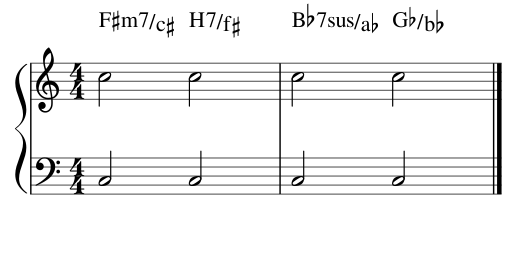
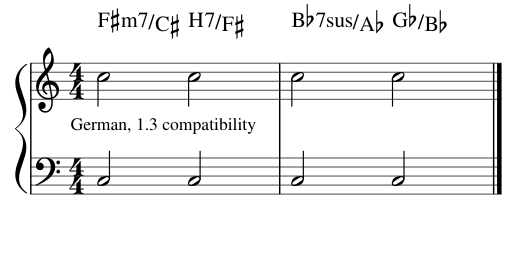
fix #40066: use es/is for german chords if lower case option enabled
Former-commit-id: c4faee7198363aef7198ce029d67ae2ddf29c79b

diff --git a/libmscore/harmony.cpp b/libmscore/harmony.cpp
@@ -364,8 +364,12 @@ void Harmony::determineRootBaseSpelling(NoteSpellingType& rootSpelling, bool& ro
       {
       if (score()->styleB(StyleIdx::useStandardNoteNames))
             rootSpelling = NoteSpellingType::STANDARD;
-      else if (score()->styleB(StyleIdx::useGermanNoteNames))
-            rootSpelling = NoteSpellingType::GERMAN;
+      else if (score()->styleB(StyleIdx::useGermanNoteNames)) {
+            if (score()->styleB(StyleIdx::lowerCaseMinorChords))
+                  rootSpelling = NoteSpellingType::GERMAN_PURE;
+            else
+                  rootSpelling = NoteSpellingType::GERMAN;
+            }
       else if (score()->styleB(StyleIdx::useSolfeggioNoteNames))
             rootSpelling = NoteSpellingType::SOLFEGGIO;
       baseSpelling = rootSpelling;
@@ -380,7 +384,7 @@ void Harmony::determineRootBaseSpelling(NoteSpellingType& rootSpelling, bool& ro
             }
       else
             rootLowerCase = score()->styleB(StyleIdx::lowerCaseMinorChords);
-      if (baseSpelling == NoteSpellingType::GERMAN)
+      if (baseSpelling == NoteSpellingType::GERMAN_PURE)
             baseLowerCase = true;
       else
             baseLowerCase = false;
@@ -402,6 +406,7 @@ void Harmony::determineRootBaseSpelling()
 
 static int convertRoot(const QString& s, NoteSpellingType spelling, int& idx)
       {
+      bool useGerman = false;
       static const int spellings[] = {
          // bb  b   -   #  ##
             0,  7, 14, 21, 28,  // C
@@ -416,9 +421,15 @@ static int convertRoot(const QString& s, NoteSpellingType spelling, int& idx)
             return Tpc::TPC_INVALID;
       int acci;
       switch (spelling) {
-            case NoteSpellingType::GERMAN:      acci = 1; break;
-            case NoteSpellingType::SOLFEGGIO:   acci = 2; break;
-            default:                            acci = 1; break;
+            case NoteSpellingType::SOLFEGGIO:
+                  acci = 2;
+                  break;
+            case NoteSpellingType::GERMAN:
+            case NoteSpellingType::GERMAN_PURE:
+                  useGerman = true;
+                  // fall through
+            default:
+                  acci = 1;
             }
       idx = acci;
       int alter = 0;
@@ -433,19 +444,19 @@ static int convertRoot(const QString& s, NoteSpellingType spelling, int& idx)
                   alter = -1;
                   idx += 1;
                   }
-            else if (spelling == NoteSpellingType::GERMAN && acc.startsWith("eses")) {
+            else if (useGerman && acc.startsWith("eses")) {
                   alter = -2;
                   idx += 4;
                   }
-            else if (spelling == NoteSpellingType::GERMAN && (acc.startsWith("ses") || acc.startsWith("sas"))) {
+            else if (useGerman && (acc.startsWith("ses") || acc.startsWith("sas"))) {
                   alter = -2;
                   idx += 3;
                   }
-            else if (spelling == NoteSpellingType::GERMAN && acc.startsWith("es")) {
+            else if (useGerman && acc.startsWith("es")) {
                   alter = -1;
                   idx += 2;
                   }
-            else if (spelling == NoteSpellingType::GERMAN && acc.startsWith("s") && !acc.startsWith("su")) {
+            else if (useGerman && acc.startsWith("s") && !acc.startsWith("su")) {
                   alter = -1;
                   idx += 1;
                   }
@@ -461,17 +472,17 @@ static int convertRoot(const QString& s, NoteSpellingType spelling, int& idx)
                   alter = 1;
                   idx += 1;
                   }
-            else if (spelling == NoteSpellingType::GERMAN && acc.startsWith("isis")) {
+            else if (useGerman && acc.startsWith("isis")) {
                   alter = 2;
                   idx += 4;
                   }
-            else if (spelling == NoteSpellingType::GERMAN && acc.startsWith("is")) {
+            else if (useGerman && acc.startsWith("is")) {
                   alter = 1;
                   idx += 2;
                   }
             }
       int r;
-      if (spelling == NoteSpellingType::GERMAN) {
+      if (useGerman) {
             switch(s[0].toLower().toLatin1()) {
                   case 'c':   r = 0; break;
                   case 'd':   r = 1; break;

diff --git a/libmscore/pitchspelling.cpp b/libmscore/pitchspelling.cpp
@@ -242,17 +242,42 @@ void tpc2name(int tpc, NoteSpellingType spelling, bool lowerCase, QString& s, QS
       int n;
       tpc2name(tpc, spelling, lowerCase, s, n);
       switch (n) {
-            case -2: acc = explicitAccidental ? QObject::tr("double flat") : "bb" ; break;
+            case -2:
+                  if (explicitAccidental) {
+                        acc = QObject::tr("double flat");
+                        }
+                  else if (spelling == NoteSpellingType::GERMAN_PURE) {
+                        switch (tpc) {
+                              case TPC_A_BB: acc = "sas"; break;
+                              case TPC_E_BB: acc = "ses"; break;
+                              default: acc = "eses";
+                              }
+                        }
+                  else {
+                        acc = "bb";
+                        }
+                  break;
             case -1:
-                  if (spelling != NoteSpellingType::GERMAN)
-                        acc = explicitAccidental ? QObject::tr("flat") : "b";
+                  if (explicitAccidental)
+                        acc = QObject::tr("flat");
+                  else if (spelling == NoteSpellingType::GERMAN_PURE)
+                        acc = (tpc == TPC_A_B || tpc == TPC_E_B) ? "s" : "es";
                   else
-                        // render flats as "es" except for A and E, which get "s"
-                        acc = (tpc == 10 || tpc == 11) ? "s" : "es";
+                        acc = "b";
                   break;
             case  0: acc = ""; break;
-            case  1: acc = (spelling != NoteSpellingType::GERMAN) ? (explicitAccidental ? QObject::tr("sharp") : "#") : "is"; break;
-            case  2: acc = explicitAccidental ? QObject::tr("double sharp") : "##"; break;
+            case  1:
+                  if (explicitAccidental)
+                        acc = QObject::tr("sharp");
+                  else
+                        acc = (spelling == NoteSpellingType::GERMAN_PURE) ? "is" : "#";
+                  break;
+            case  2:
+                  if (explicitAccidental)
+                        acc = QObject::tr("double sharp");
+                  else
+                        acc = (spelling == NoteSpellingType::GERMAN_PURE) ? "isis" : "##";
+                  break;
             default:
                   qDebug("tpc2name(%d): acc %d", tpc, n);
                   acc = "";
@@ -274,6 +299,7 @@ void tpc2name(int tpc, NoteSpellingType spelling, bool lowerCase, QString& s, in
       int idx = (tpc + 1) % 7;
       switch (spelling) {
             case NoteSpellingType::GERMAN:
+            case NoteSpellingType::GERMAN_PURE:
                   s = gnames[idx];
                   if (s == "H" && acc == -1) {
                         s = "B";

diff --git a/libmscore/pitchspelling.h b/libmscore/pitchspelling.h
@@ -52,7 +52,7 @@ const int   STEP_DELTA_OCTAVE       = 7;  // the number of steps in an octave
 // pitch2tpc(pitch) replaced by pitch2tpc(pitch, Key::C, Prefer::NEAREST)
 
 enum class Prefer : char { FLATS=8, NEAREST=11, SHARPS=13 };
-enum class NoteSpellingType : char { STANDARD = 0, GERMAN, SOLFEGGIO };
+enum class NoteSpellingType : char { STANDARD = 0, GERMAN, GERMAN_PURE, SOLFEGGIO };
 
 extern int pitch2tpc(int pitch, Key, Prefer prefer);
 
